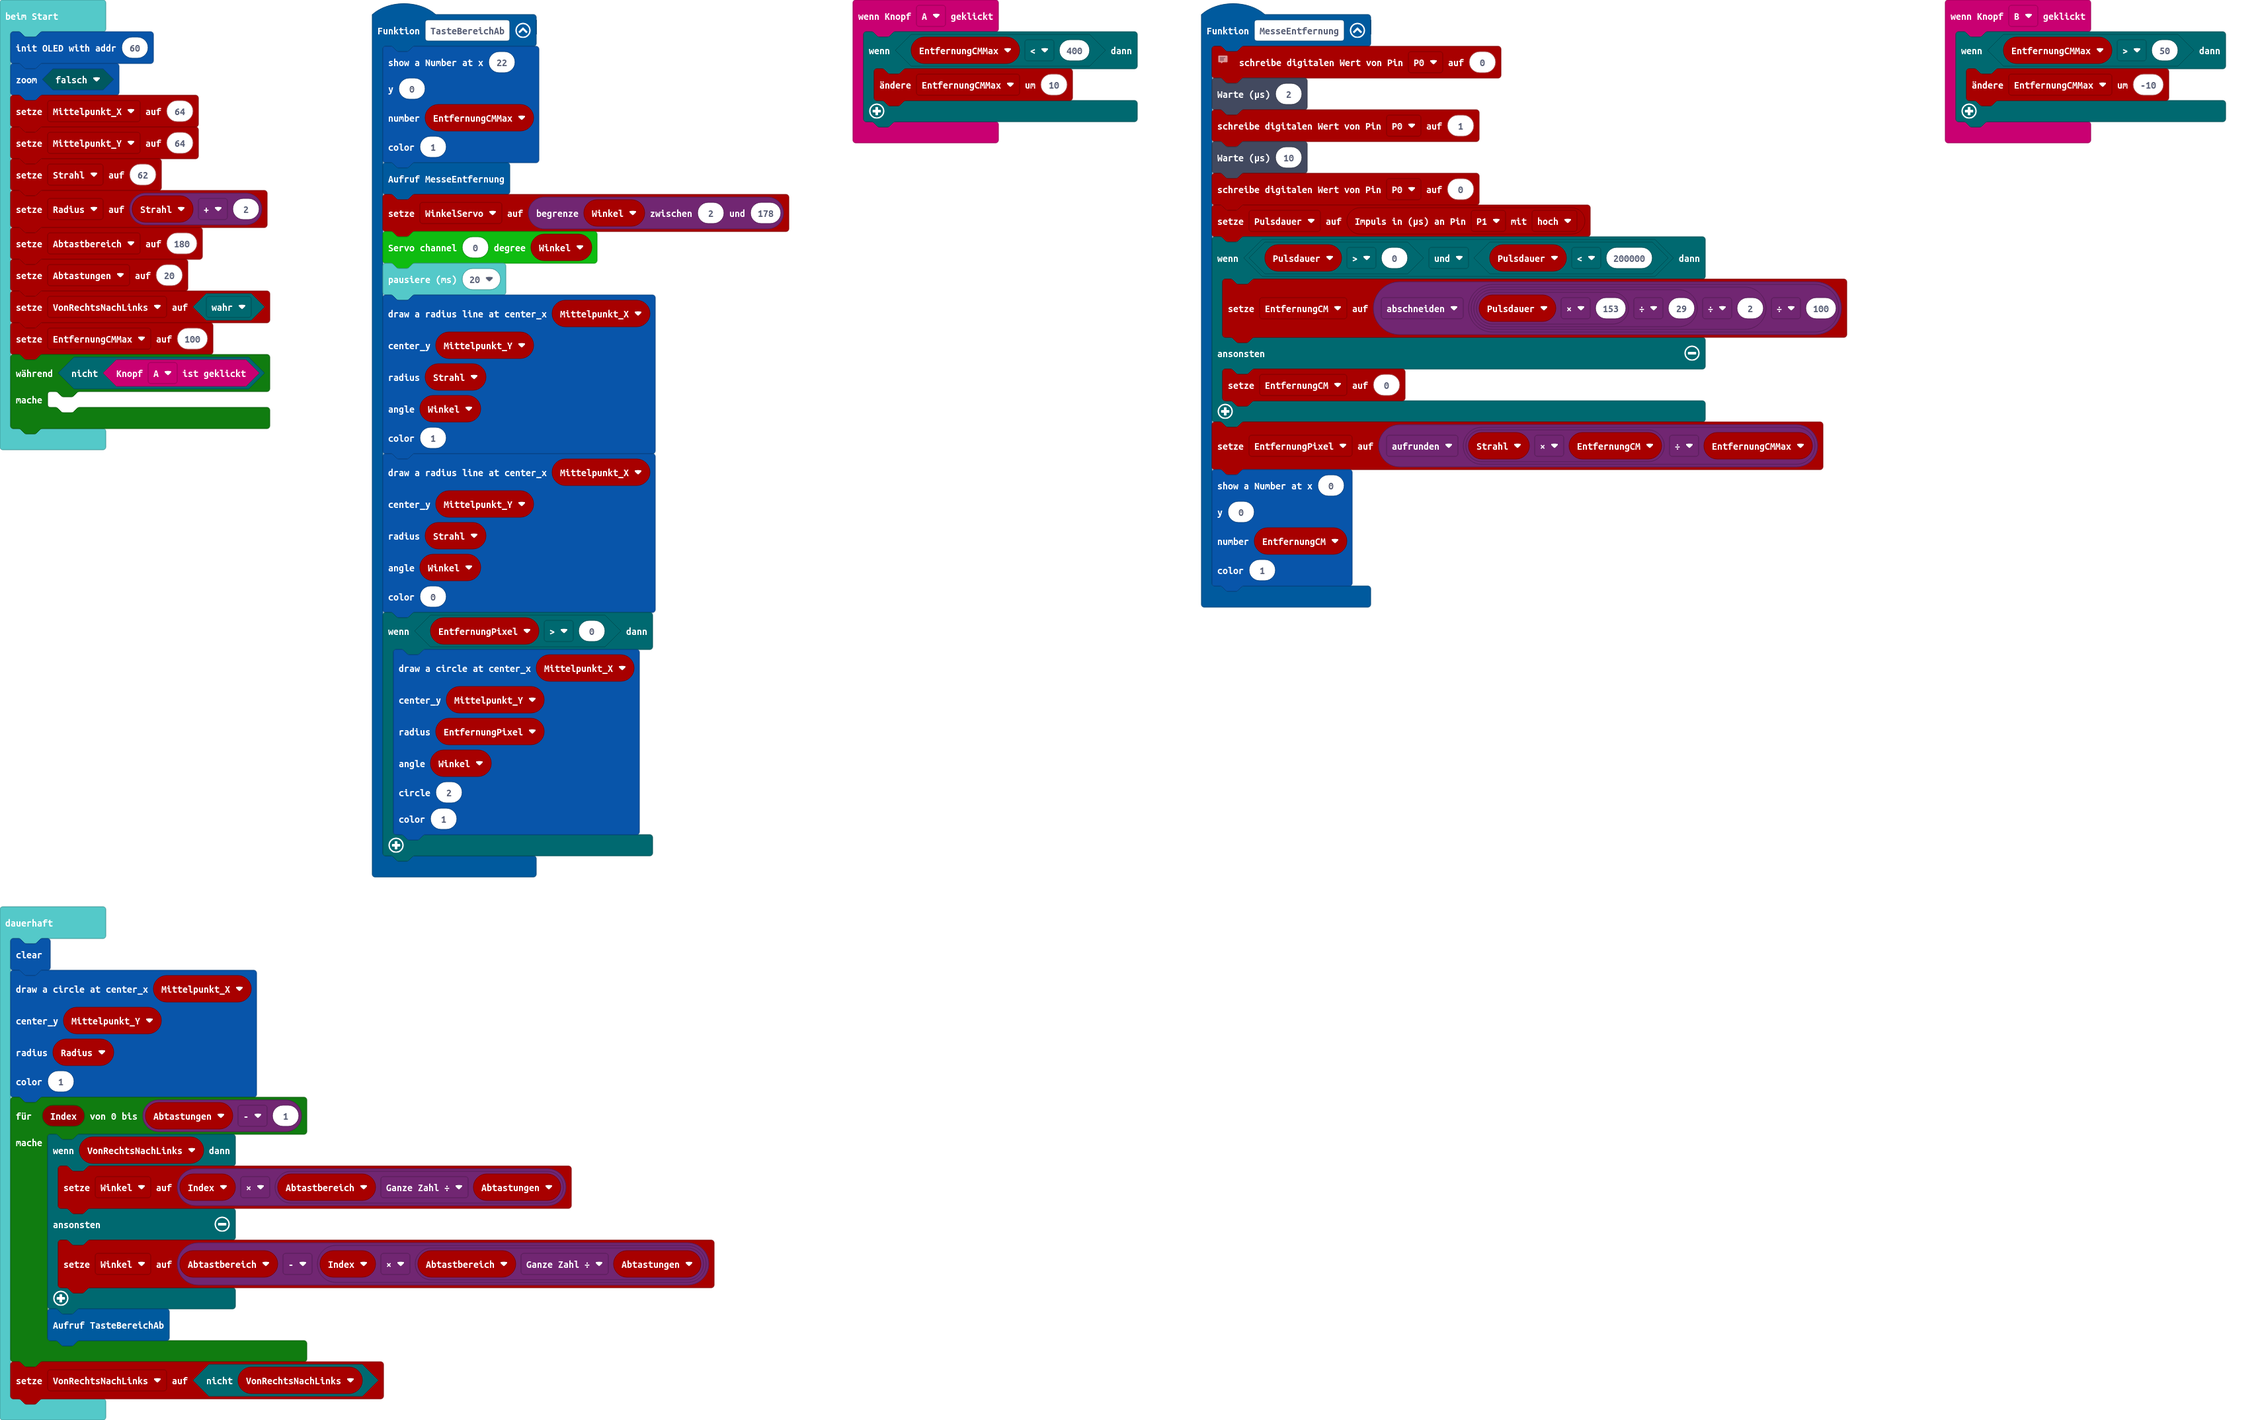
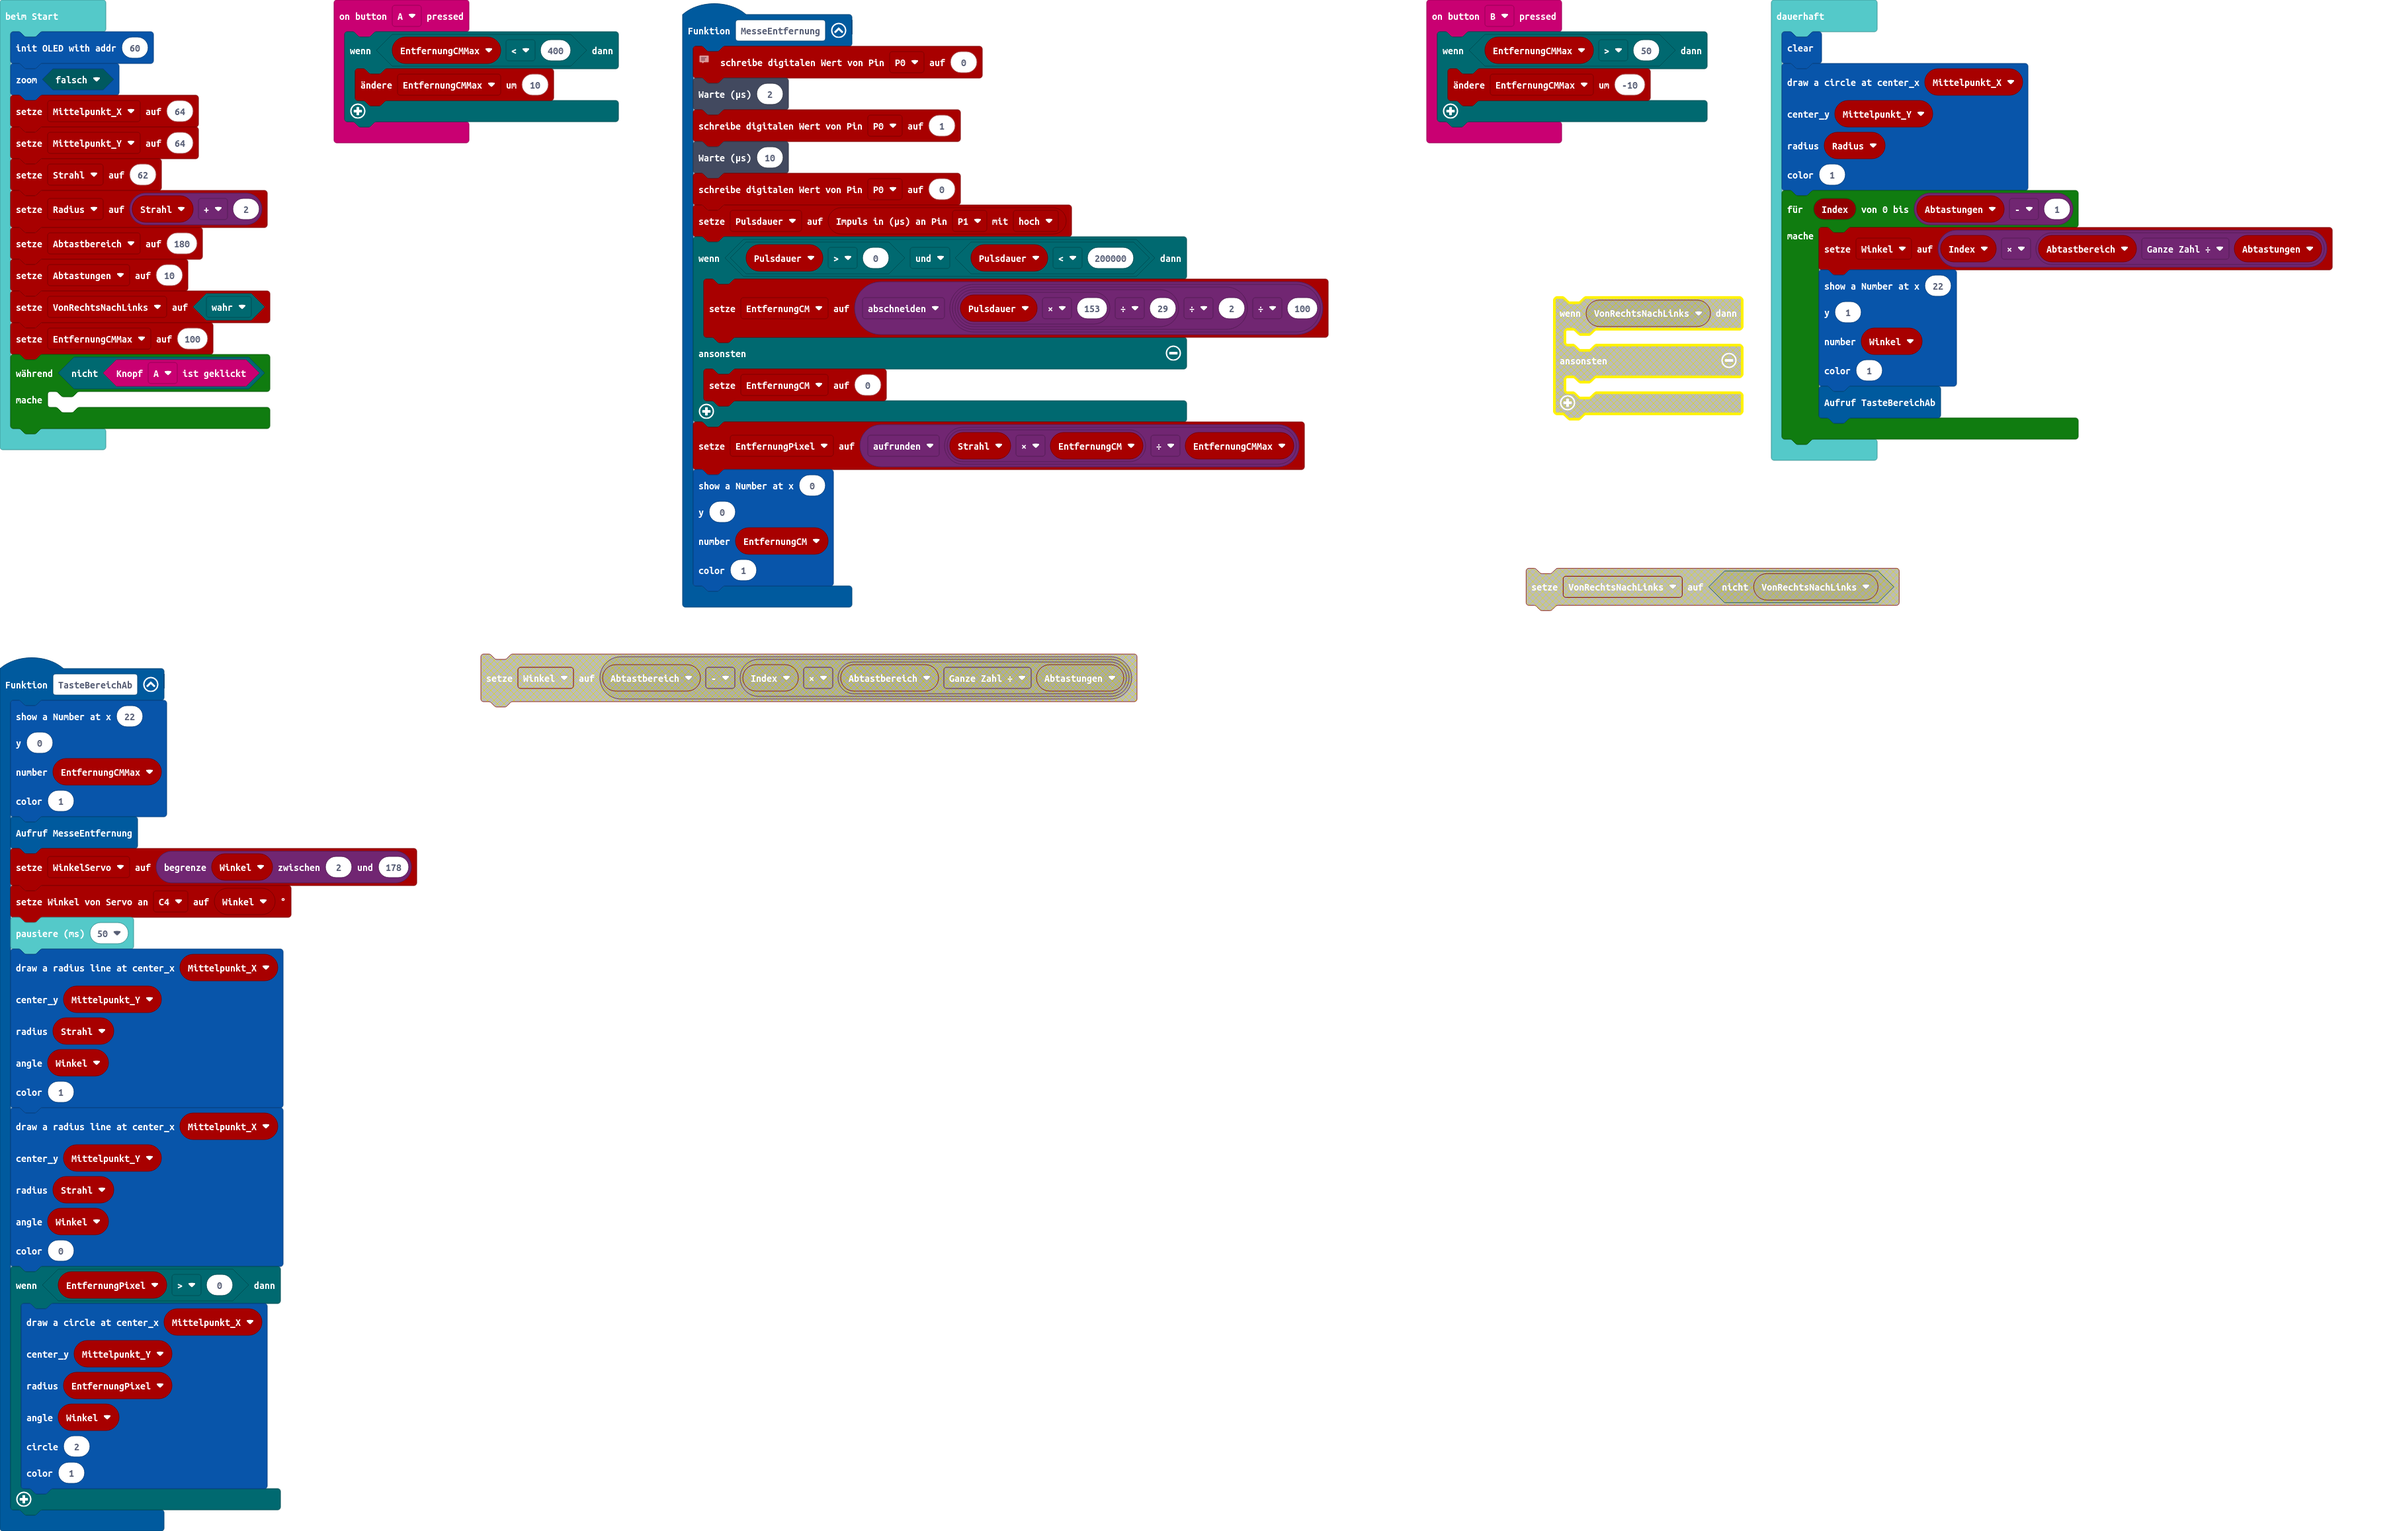
Aktualisiere pxt.json, main.blocks, main.ts

diff --git a/main.ts b/main.ts
@@ -7,8 +7,8 @@ function TasteBereichAb () {
     )
     MesseEntfernung()
     WinkelServo = Math.constrain(Winkel, 2, 178)
-    Servo.Servo(0, Winkel)
-    basic.pause(20)
+    pins.servoWritePin(AnalogPin.C4, Winkel)
+    basic.pause(50)
     OLED12864_I2C.radius_line(
     Mittelpunkt_X,
     Mittelpunkt_Y,
@@ -81,7 +81,7 @@ Mittelpunkt_Y = 64
 Strahl = 62
 let Radius = Strahl + 2
 let Abtastbereich = 180
-let Abtastungen = 20
+let Abtastungen = 10
 let VonRechtsNachLinks = true
 EntfernungCMMax = 100
 while (!(input.buttonIsPressed(Button.A))) {
@@ -96,12 +96,13 @@ basic.forever(function () {
     1
     )
     for (let Index = 0; Index <= Abtastungen - 1; Index++) {
-        if (VonRechtsNachLinks) {
-            Winkel = Index * Math.idiv(Abtastbereich, Abtastungen)
-        } else {
-            Winkel = Abtastbereich - Index * Math.idiv(Abtastbereich, Abtastungen)
-        }
+        Winkel = Index * Math.idiv(Abtastbereich, Abtastungen)
+        OLED12864_I2C.showNumber(
+        22,
+        1,
+        Winkel,
+        1
+        )
         TasteBereichAb()
     }
-    VonRechtsNachLinks = !(VonRechtsNachLinks)
 })
